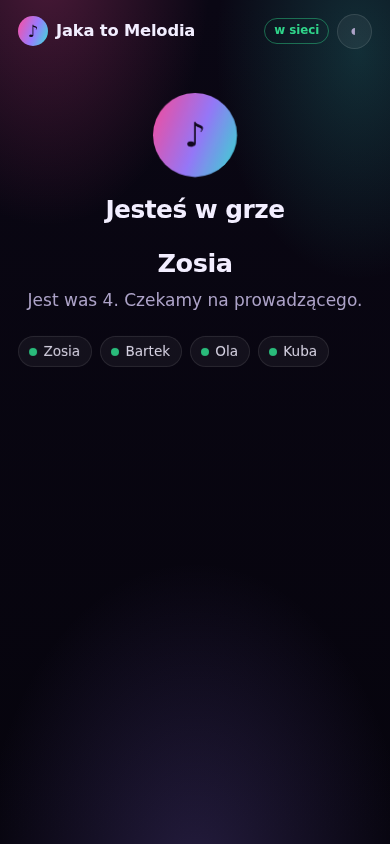
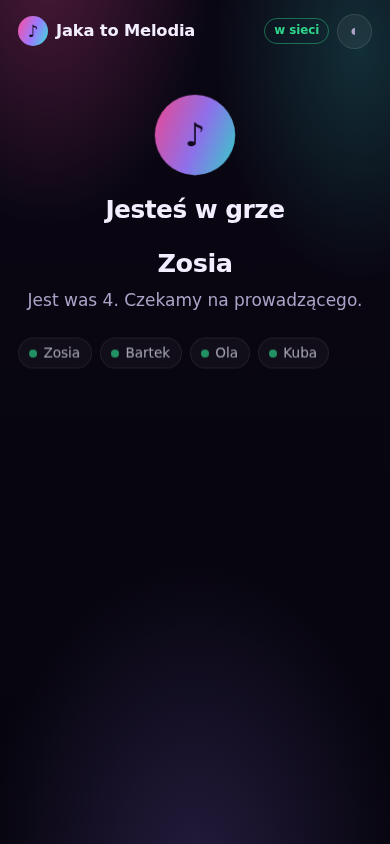
Poprawki po graniu: kolejność dekad, czytelność, stabilność dźwięku, ładniejszy ekran wyników rundy
- Panel wyboru tematu rundy (host i gracz) pokazywał kategorie/dekady
  w kolejności ich zaznaczania w Ustawieniach, nie chronologicznie — teraz
  zawsze idzie po kanonicznej kolejności KATEGORIE/DEKADY.
- Kontrast najciemniejszego odcienia tekstu (--tekst-ledwie) był poniżej
  progu WCAG AA (ok. 4.2:1 na ciemnym tle, 3.6:1 na jasnym) — rozjaśniony/
  przyciemniony w obu motywach do >5:1, plus lekko cięższa waga fontu na
  drobnym tekście.
- Telefon gracza „rozgrzewał” odtwarzacz dźwięku przy KAŻDYM dołączeniu do
  gry, niezależnie od tego, czy prowadzący w ogóle włączył „muzykę
  wszędzie” — na iPhonie samo odtworzenie czegokolwiek (nawet ciszy)
  zwykle ucina muzykę graną w tle w innej aplikacji. Rozgrzewka rusza
  teraz tylko wtedy, gdy prowadzący faktycznie ma tę opcję włączoną
  (dowiaduje się o tym z wiadomości powitalnej), z zapasową próbą przy
  pierwszym kliknięciu odpowiedzi. Dodatkowo: seek do rzeczywistej
  długości nagrania zamiast sztywnych 30 s.
- Ekran wyników rundy (podium między seriami) dostał kartę przypominającą
  ostatnią piosenkę tej rundy — okładka, tytuł, wykonawca, kategoria
  i dekada — zamiast pustego miejsca pod tabelą. Przy okazji: ekran
  odsłony u gracza też dostał okładkę (dotąd miał ją tylko prowadzący).

Claude-Session: https://claude.ai/code/session_01QcNeK2CVkyh8RKDSUpeLnh

diff --git a/jaka-to-melodia/js/prowadzacy.js b/jaka-to-melodia/js/prowadzacy.js
@@ -341,14 +341,15 @@ export function uruchom() {
         sterujeProwadzacy,
         probaTematu: stan.probaTematu,
         // Telefon wylosowanego gracza rysuje panel wyboru z tych gotowych opisów —
-        // sam nie musi znać katalogu ani stałych KATEGORIE/DEKADY.
-        kategorieDostepne: stan.ustawienia.kategorie
-          .map((id) => KATEGORIE.find((k) => k.id === id))
-          .filter(Boolean)
+        // sam nie musi znać katalogu ani stałych KATEGORIE/DEKADY. Idziemy po
+        // kanonicznej kolejności tych stałych (nie po stan.ustawienia.kategorie/
+        // dekady) — inaczej kolejność zależałaby od tego, w jakiej kolejności
+        // ktoś klikał kategorie w Ustawieniach, a dekady wychodziłyby pomieszane.
+        kategorieDostepne: KATEGORIE
+          .filter((k) => stan.ustawienia.kategorie.includes(k.id))
           .map((k) => ({ id: k.id, nazwa: k.nazwa, emoji: k.emoji })),
-        dekadyDostepne: stan.ustawienia.dekady
-          .map((id) => DEKADY.find((d) => d.id === id))
-          .filter(Boolean)
+        dekadyDostepne: DEKADY
+          .filter((d) => stan.ustawienia.dekady.includes(d.id))
           .map((d) => ({ id: d.id, nazwa: d.nazwa })),
         dlugoscSerii: stan.ustawienia.dlugoscSerii,
       });
@@ -427,7 +428,14 @@ export function uruchom() {
       gracz.widziany = Date.now();
     }
 
-    pokoj.nadaj({ t: 'witaj', id, ksywka: gracz.ksywka, punkty: gracz.punkty, faza: stan.faza });
+    // muzykaWszedzie jedzie tu, żeby telefon gracza wiedział od razu po dołączeniu,
+    // czy w ogóle warto „rozgrzewać” swój odtwarzacz — a nie robił tego na ślepo
+    // przy każdym dołączeniu, bo samo odtworzenie czegokolwiek (nawet ciszy) na
+    // iPhonie zwykle ucina muzykę graną w tle w innej aplikacji.
+    pokoj.nadaj({
+      t: 'witaj', id, ksywka: gracz.ksywka, punkty: gracz.punkty, faza: stan.faza,
+      muzykaWszedzie: stan.ustawienia.dzwiekWAplikacji && stan.ustawienia.muzykaWszedzie,
+    });
     if (stan.faza === 'lobby') { rysujLobby(); nadajStan(); }
   }
 
@@ -520,10 +528,12 @@ export function uruchom() {
   }
 
   function rysujWyborTematu() {
+    // Kanoniczna kolejność KATEGORIE/DEKADY, nie stan.ustawienia.kategorie/dekady —
+    // ta druga zależy od tego, w jakiej kolejności ktoś klikał w Ustawieniach.
     const kategorie = wyczysc($('#wybor-tematu-kategorii'));
-    for (const id of stan.ustawienia.kategorie) {
-      const kat = KATEGORIE.find((k) => k.id === id);
-      if (!kat) continue;
+    for (const kat of KATEGORIE) {
+      if (!stan.ustawienia.kategorie.includes(kat.id)) continue;
+      const id = kat.id;
       kategorie.append(znaczek(`${kat.emoji} ${kat.nazwa}`, stan.wybor.kategorie.includes(id), () => {
         stan.wybor.kategorie = przelacz(stan.wybor.kategorie, id);
         rysujWyborTematu();
@@ -531,9 +541,9 @@ export function uruchom() {
     }
 
     const dekady = wyczysc($('#wybor-tematu-dekad'));
-    for (const id of stan.ustawienia.dekady) {
-      const dek = DEKADY.find((d) => d.id === id);
-      if (!dek) continue;
+    for (const dek of DEKADY) {
+      if (!stan.ustawienia.dekady.includes(dek.id)) continue;
+      const id = dek.id;
       dekady.append(znaczek(dek.nazwa, stan.wybor.dekady.includes(id), () => {
         stan.wybor.dekady = przelacz(stan.wybor.dekady, id);
         rysujWyborTematu();
@@ -792,6 +802,7 @@ export function uruchom() {
       rok: pytanie.utwor.rok,
       kategoria: kategoriaInfo ? { emoji: kategoriaInfo.emoji, nazwa: kategoriaInfo.nazwa } : null,
       dekada: dekadaInfo ? dekadaInfo.nazwa : null,
+      okladka: wpisPodgladu?.okladka || null,
       wyniki,
       ranking: tabela.slice(0, 5).map(lekkiWpis),
       ostatniePytanieRundy: stan.nrPytania + 1 >= stan.seria.length,
@@ -902,21 +913,62 @@ export function uruchom() {
 
     const tabela = ranking(stan.gracze);
     const ostatniaRunda = stan.nrRundyGry >= stan.ustawienia.liczbaRund;
+
+    // Przypomnienie ostatniej piosenki tej rundy — ten sam kawałek danych co
+    // na odsłonie, więc ekran wyników nie jest gołą tabelą bez związku z tym,
+    // co się właśnie działo.
+    // Uwaga: stan.nrPytania w tym miejscu jest już ZA końcem serii (patrz
+    // nastepnePytanie — inkrementacja i porównanie z długością serii zdarzają
+    // się przed wywołaniem zakonczRunde) — ostatnie realne pytanie to ostatni
+    // element seria, nie seria[nrPytania].
+    const ostatniePytanie = stan.seria[stan.seria.length - 1];
+    const dekadaOst = DEKADY.find((d) => d.id === ostatniePytanie.utwor.dekada);
+    const kategoriaOst = KATEGORIE.find((k) => k.id === ostatniePytanie.utwor.gatunek);
+    const ostatniaPiosenka = {
+      tytul: ostatniePytanie.utwor.tytul,
+      wykonawca: ostatniePytanie.utwor.wykonawca,
+      rok: ostatniePytanie.utwor.rok,
+      okladka: zrodlo.zPamieci(ostatniePytanie.utwor)?.okladka || null,
+      kategoria: kategoriaOst ? { emoji: kategoriaOst.emoji, nazwa: kategoriaOst.nazwa } : null,
+      dekada: dekadaOst ? dekadaOst.nazwa : null,
+    };
+
     stan.ostatnieWynikiRundy = {
       t: 'wyniki-rundy',
       nrRundyGry: stan.nrRundyGry,
       ileRund: stan.ustawienia.liczbaRund,
       ranking: tabela.slice(0, 8).map(lekkiWpis),
+      ostatniaPiosenka,
       ostatniaRunda,
     };
 
     $('#wyniki-rundy-nadtytul').textContent = `Runda ${stan.nrRundyGry}/${stan.ustawienia.liczbaRund} — koniec`;
+    rysujOstatniaPiosenke($('#karta-ostatniej-piosenki'), $('#okladka-rundy'), $('#ostatnia-piosenka-tytul'),
+      $('#ostatnia-piosenka-wykonawca'), $('#ostatnia-piosenka-znaczniki'), ostatniaPiosenka);
     rysujPodiumRundy(tabela);
     rysujRanking($('#ranking-rundy'), tabela, stan.ustawienia.prowadzacyGra ? ID_PROWADZACEGO : null, true);
     $('#dalej-po-rundzie').textContent = ostatniaRunda ? 'Zobacz wynik gry' : 'Następna runda';
 
     nadajStan();
     pokazEkran('wyniki-rundy');
+  }
+
+  /** Wspólne dla prowadzącego i (przez broadcast) gracza — karta „co leciało”
+      na ekranie wyników rundy. */
+  function rysujOstatniaPiosenke(karta, okladka, tytul, wykonawca, znaczniki, dane) {
+    karta.hidden = false;
+    if (dane.okladka) {
+      okladka.src = dane.okladka;
+      okladka.alt = `Okładka: ${dane.tytul}`;
+      okladka.hidden = false;
+    } else {
+      okladka.hidden = true;
+    }
+    tytul.textContent = dane.tytul;
+    wykonawca.textContent = `${dane.wykonawca} · ${dane.rok}`;
+    wyczysc(znaczniki);
+    if (dane.kategoria) znaczniki.append(el('span', { tekst: `${dane.kategoria.emoji} ${dane.kategoria.nazwa}` }));
+    if (dane.dekada) znaczniki.append(el('span', { tekst: dane.dekada }));
   }
 
   function rysujPodiumRundy(tabela) {

diff --git a/jaka-to-melodia/js/gracz.js b/jaka-to-melodia/js/gracz.js
@@ -44,6 +44,7 @@ export function uruchom() {
     kluczOdliczania: null,
     kluczWynikowRundy: null,
     kluczNagrania: null,          // `${nrRundyGry}/${nr}` pytania, dla którego już ruszyła muzyka u siebie
+    nagranieOczekiwane: false,    // czy bieżące pytanie w ogóle niesie adres nagrania
     tematOpcje: null,            // { kategorie, dekady } — opcje do wyboru, przysłane przez prowadzącego
     wyborTemat: null,            // robocza (jeszcze niewysłana) wersja wyboru
   };
@@ -72,11 +73,6 @@ export function uruchom() {
       return;
     }
 
-    // Rozgrzewka musi wyjść z tego samego dotknięcia — stąd tu, przed jakimkolwiek
-    // czekaniem na sieć. Przyda się tylko, jeśli prowadzący włączy „muzykę
-    // wszędzie”, ale nic nie kosztuje zrobić ją zawsze, na wszelki wypadek.
-    odtwarzacz.rozgrzej();
-
     const przycisk = $('#dolacz');
     przycisk.disabled = true;
     przycisk.textContent = 'Szukam pokoju…';
@@ -92,6 +88,11 @@ export function uruchom() {
         powiadom(powitanie.powod || 'Pokój jest pełny.', 'blad');
         return;
       }
+      // Rozgrzewka — tylko jeśli prowadzący faktycznie włączył „muzykę wszędzie”.
+      // Robiona zawsze, samo odtworzenie czegokolwiek (nawet ciszy) na iPhonie
+      // zwykle ucina muzykę graną w tle w innej aplikacji — nie chcemy robić
+      // tego niepotrzebnie każdemu, kto dołącza do zwykłej gry.
+      if (powitanie.muzykaWszedzie) odtwarzacz.rozgrzej();
       stan.ksywka = powitanie.ksywka || ksywka;
       stan.punkty = powitanie.punkty || 0;
       localStorage.setItem('jtm:ksywka', stan.ksywka);
@@ -298,6 +299,7 @@ export function uruchom() {
     if (stan.kluczNagrania === klucz) return;
     stan.kluczNagrania = klucz;
 
+    stan.nagranieOczekiwane = Boolean(wiadomosc.nagranie?.url);
     if (!wiadomosc.nagranie?.url) {
       odtwarzacz.uciszWszystko();
       return;
@@ -322,6 +324,10 @@ export function uruchom() {
 
   function odpowiedz(nr) {
     if (stan.wybor !== null) return;
+    // Zapasowa okazja do rozgrzewki: gdyby telefon dołączył do lobby zanim
+    // prowadzący włączył „muzykę wszędzie”, ten klik i tak jest prawdziwym
+    // dotknięciem ekranu — następne pytanie ma wtedy szansę zagrać.
+    if (stan.nagranieOczekiwane && !odtwarzacz.rozgrzany) odtwarzacz.rozgrzej();
     stan.wybor = nr;
     const czasMs = Math.round(stan.offsetMs + (performance.now() - stan.pokazano));
     pokoj.nadaj({ t: 'odp', id: mojeId, nr: stan.nrPytania, wybor: nr, czasMs });
@@ -388,6 +394,14 @@ export function uruchom() {
       werdykt.innerHTML = 'Nie zdążyłeś<span class="punkty">następnym razem szybciej</span>';
     }
 
+    const okladka = $('#okladka-gracz');
+    if (wiadomosc.okladka) {
+      okladka.src = wiadomosc.okladka;
+      okladka.alt = `Okładka: ${wiadomosc.tytul}`;
+      okladka.hidden = false;
+    } else {
+      okladka.hidden = true;
+    }
     $('#odsloniety-tytul-gracz').textContent = wiadomosc.tytul;
     $('#odsloniety-wykonawca-gracz').textContent = `${wiadomosc.wykonawca} · ${wiadomosc.rok}`;
     rysujZnacznikiUtworu($('#znaczniki-utworu-gracz'), wiadomosc);
@@ -428,6 +442,22 @@ export function uruchom() {
     $('#gracz-wyniki-rundy-info').textContent = wiadomosc.ostatniaRunda
       ? 'To była ostatnia runda — zaraz podsumowanie całej gry.'
       : 'Zaraz kolejna runda…';
+
+    if (wiadomosc.ostatniaPiosenka) {
+      const dane = wiadomosc.ostatniaPiosenka;
+      $('#karta-ostatniej-piosenki-gracz').hidden = false;
+      const okladka = $('#okladka-rundy-gracz');
+      if (dane.okladka) {
+        okladka.src = dane.okladka;
+        okladka.alt = `Okładka: ${dane.tytul}`;
+        okladka.hidden = false;
+      } else {
+        okladka.hidden = true;
+      }
+      $('#ostatnia-piosenka-tytul-gracz').textContent = dane.tytul;
+      $('#ostatnia-piosenka-wykonawca-gracz').textContent = `${dane.wykonawca} · ${dane.rok}`;
+      rysujZnacznikiUtworu($('#ostatnia-piosenka-znaczniki-gracz'), dane);
+    }
 
     const lista = wyczysc($('#ranking-gracza-rundy'));
     tabela.forEach((gracz, i) => {

diff --git a/jaka-to-melodia/styles.css b/jaka-to-melodia/styles.css
@@ -20,7 +20,7 @@
 
   --tekst:          #F2EEFF;
   --tekst-cichy:    #ADA3C8;
-  --tekst-ledwie:   #776D96;
+  --tekst-ledwie:   #948AB8;
 
   --magenta:        #FF4D9D;
   --lazur:          #38E1D6;
@@ -67,7 +67,7 @@
 
   --tekst:          #170E30;
   --tekst-cichy:    #574B77;
-  --tekst-ledwie:   #857AA3;
+  --tekst-ledwie:   #6B5F8F;
 
   --magenta:        #D42077;
   --lazur:          #0E8C86;
@@ -279,7 +279,7 @@ main {
 }
 
 .opis { margin: 0 0 1.4rem; color: var(--tekst-cichy); }
-.drobne { font-size: .84rem; color: var(--tekst-ledwie); }
+.drobne { font-size: .84rem; font-weight: 500; color: var(--tekst-ledwie); }
 .drobne.srodek { text-align: center; }
 .etykieta {
   margin: 0 0 .15rem;
@@ -441,7 +441,7 @@ main {
 .przelacznik input { margin-top: .35rem; width: 1.15rem; height: 1.15rem; accent-color: var(--magenta); }
 .przelacznik span { display: flex; flex-direction: column; }
 .przelacznik strong { font-weight: 600; font-size: .98rem; }
-.przelacznik small { color: var(--tekst-ledwie); font-size: .84rem; }
+.przelacznik small { color: var(--tekst-ledwie); font-size: .84rem; font-weight: 500; }
 
 /* Pole zależne od przełącznika nad nim — wcięte, żeby było widać zależność. */
 .pole.wciete { margin: .2rem 0 .4rem 1.9rem; }
@@ -694,8 +694,17 @@ main {
   object-fit: cover;
   background: var(--plyta-mocna);
 }
+/* Na ekranie gracza (wyśrodkowanym, bez rzędu obok tekstu) okładka stoi sama,
+   nad tytułem, zamiast obok niego. */
+.okladka.srodek { display: block; margin: 0 auto 1rem; width: 7.2rem; height: 7.2rem; box-shadow: var(--cien-mm); }
 
 .odsloniete-tresc { min-width: 0; }
+
+/* Skrócona wersja karty „co leciało” — na ekranie wyników rundy, żeby
+   przypomnieć ostatnią piosenkę bez powtarzania całej odsłony. */
+.odsloniete.kompaktowe { padding: .7rem; margin-bottom: 1rem; }
+.odsloniete.kompaktowe .okladka { width: 4.4rem; height: 4.4rem; }
+.odsloniete.lewo { text-align: left; }
 
 .odsloniety-tytul {
   margin: 0 0 .2rem;
@@ -706,6 +715,7 @@ main {
   letter-spacing: -.02em;
   overflow-wrap: anywhere;
 }
+.odsloniety-tytul.maly { font-size: 1.1rem; }
 
 .odsloniety-wykonawca {
   margin: 0;

diff --git a/jaka-to-melodia/index.html b/jaka-to-melodia/index.html
@@ -279,6 +279,15 @@
 <section data-ekran="wyniki-rundy" class="ekran" hidden>
   <p class="nadtytul" id="wyniki-rundy-nadtytul">Runda 1/3 — koniec</p>
   <h2 class="tytul-ekranu srodek">Wyniki tej rundy</h2>
+  <div class="odsloniete kompaktowe" id="karta-ostatniej-piosenki" hidden>
+    <img class="okladka" id="okladka-rundy" alt="" hidden>
+    <div class="odsloniete-tresc">
+      <p class="etykieta">Ostatnia piosenka tej rundy</p>
+      <p class="odsloniety-tytul maly" id="ostatnia-piosenka-tytul"></p>
+      <p class="odsloniety-wykonawca" id="ostatnia-piosenka-wykonawca"></p>
+      <p class="znaczniki-utworu" id="ostatnia-piosenka-znaczniki"></p>
+    </div>
+  </div>
   <div class="podium animowane" id="podium-rundy"></div>
   <ol class="ranking animowana" id="ranking-rundy"></ol>
   <div class="stopka-ekranu przyklejona">
@@ -373,6 +382,7 @@
 <!-- ======================= ODSŁONA (GRACZ) ======================== -->
 <section data-ekran="gracz-odslona" class="ekran srodek" hidden>
   <div class="werdykt" id="werdykt"></div>
+  <img class="okladka srodek" id="okladka-gracz" alt="" hidden>
   <p class="etykieta">To była</p>
   <h2 class="odsloniety-tytul" id="odsloniety-tytul-gracz"></h2>
   <p class="odsloniety-wykonawca" id="odsloniety-wykonawca-gracz"></p>
@@ -384,6 +394,15 @@
 <section data-ekran="gracz-wyniki-rundy" class="ekran srodek" hidden>
   <div class="werdykt" id="werdykt-rundy"></div>
   <h2 class="tytul-ekranu" id="gracz-moje-miejsce-rundy"></h2>
+  <div class="odsloniete kompaktowe lewo" id="karta-ostatniej-piosenki-gracz" hidden>
+    <img class="okladka" id="okladka-rundy-gracz" alt="" hidden>
+    <div class="odsloniete-tresc">
+      <p class="etykieta">Ostatnia piosenka tej rundy</p>
+      <p class="odsloniety-tytul maly" id="ostatnia-piosenka-tytul-gracz"></p>
+      <p class="odsloniety-wykonawca" id="ostatnia-piosenka-wykonawca-gracz"></p>
+      <p class="znaczniki-utworu" id="ostatnia-piosenka-znaczniki-gracz"></p>
+    </div>
+  </div>
   <ol class="ranking pelny animowana" id="ranking-gracza-rundy"></ol>
   <p class="opis" id="gracz-wyniki-rundy-info"></p>
 </section>

diff --git a/jaka-to-melodia/js/odtwarzacz.js b/jaka-to-melodia/js/odtwarzacz.js
@@ -96,7 +96,11 @@ export class Odtwarzacz {
 
     const ustawStart = () => {
       if (startS <= 0) return;
-      const zapas = Math.max(0, DLUGOSC_PODGLADU_MS / 1000 - 1);
+      // Realna długość podglądu, jeśli już ją znamy — bywa krótsza niż 30 s,
+      // a przeskoczenie za koniec potrafi się różnie zachować w różnych
+      // przeglądarkach, więc zostawiamy sekundowy zapas.
+      const znanaDlugoscS = Number.isFinite(element.duration) ? element.duration : DLUGOSC_PODGLADU_MS / 1000;
+      const zapas = Math.max(0, znanaDlugoscS - 1);
       try { element.currentTime = Math.min(startS, zapas); } catch { /* jeszcze nie wie, ile trwa */ }
     };
     if (element.readyState >= 1) ustawStart();

diff --git a/jaka-to-melodia/README.md b/jaka-to-melodia/README.md
@@ -50,7 +50,8 @@ kategorii i dekady osobno. Jeśli wybrany temat okaże się zbyt wąski (za mał
 utworów na całą serię), gra sama prosi o wybór jeszcze raz.
 
 Po ostatniej piosence serii wszystkie telefony — prowadzącego i graczy — widzą
-animowane podium i tabelę tej rundy, zanim gra przejdzie dalej.
+animowane podium i tabelę tej rundy (z przypomnieniem, jaka piosenka leciała na
+koniec — okładka, tytuł, wykonawca), zanim gra przejdzie dalej.
 
 ### We dwoje, w pojedynkę i w tłumie
 
@@ -125,6 +126,13 @@ blisko siebie usłyszysz lekkie echo. Dla mniejszej grupy z osobnymi słuchawkam
 albo rozproszonej po większym pokoju to zwykle niezauważalne; przy stole, gdzie
 wszystkie telefony leżą obok siebie, lepiej zostawić muzykę na jednym urządzeniu
 przy głośniku.
+
+Druga rzecz: każdy telefon ściąga swoją własną kopię fragmentu (to nie jest
+strumień z jednego źródła), więc przy większej grupie na słabszym wi-fi wszyscy
+naraz pobierają ten sam plik w tym samym momencie. Na przyzwoitej sieci to
+niezauważalne; na bardzo obciążonej może chwilowo spowolnić też samą grę
+(łączność z pokojem). Telefon, który na moment straci zasięg, i tak dostraja się
+sam — ale jeśli często coś się zacina, warto to po prostu wyłączyć.
 
 ## Katalog
 
